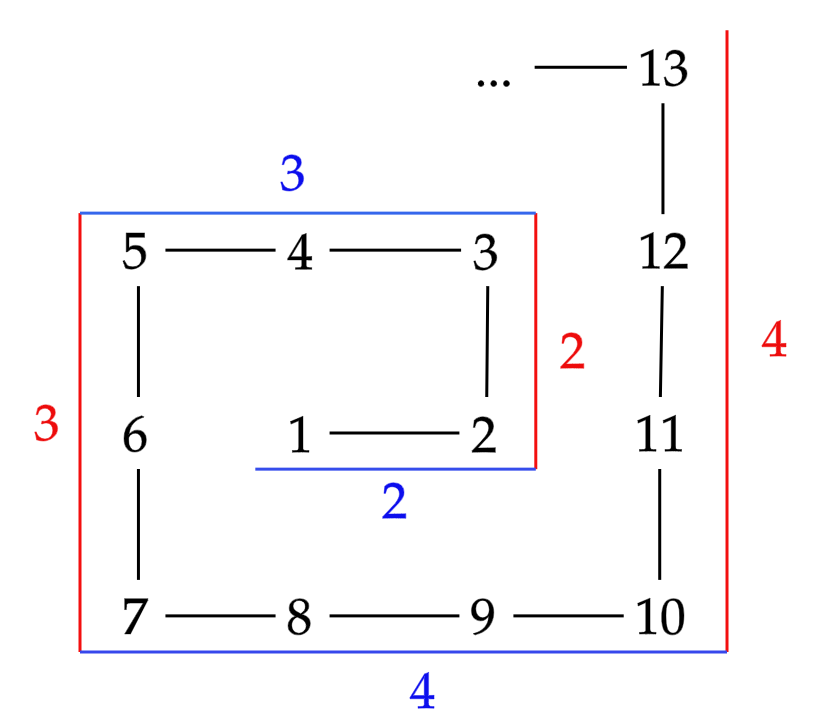
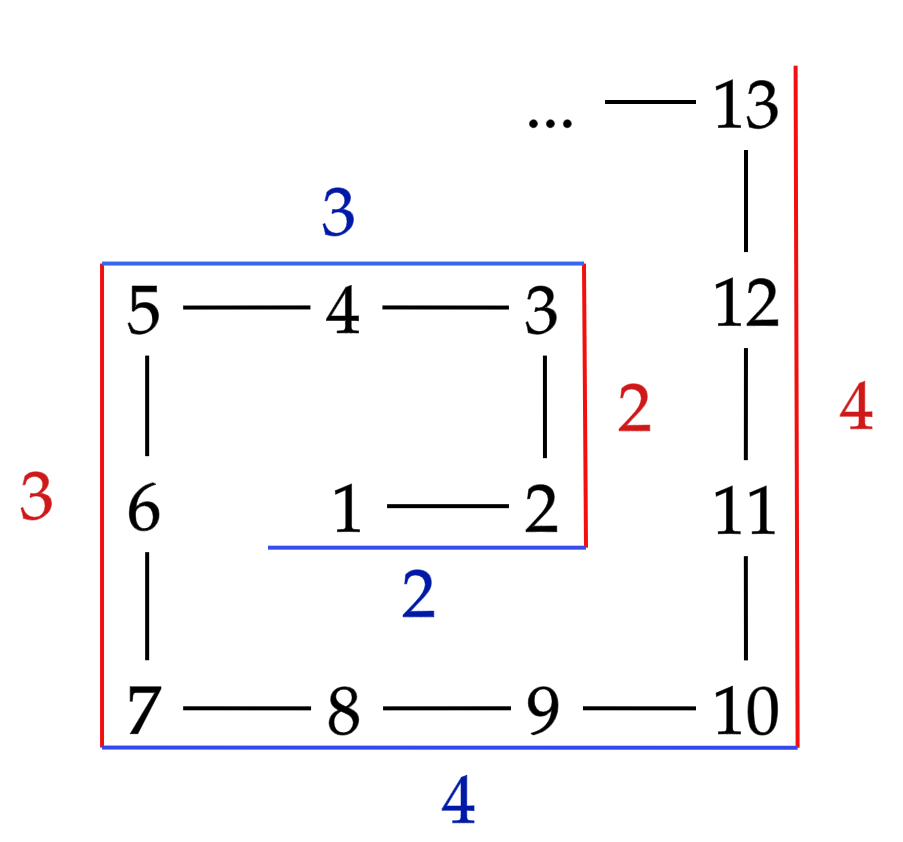
Update Tutorial

Changed region(s): [[0.0305, 0.0308, 0.9768, 1.0], [0.58, 0.0924, 0.641, 0.1541]]

diff --git a/Ulam Spiral in Raylib/README.md b/Ulam Spiral in Raylib/README.md
@@ -80,17 +80,18 @@ First let's look at the Ulam spiral and its mathematical relations
 
 ![Ulam spiral Relations](Resources/ulam-spiral-draw.png)
 
-<img src="Resources/ulam-spiral-draw.png" width="200"/>
+
+
+
+<br><br>
+
+
+Notice that each time we return to the vertical (or horizontal) line, its length is increased by 1 number.
 
 
 <br>
 
-
-Notice that each time we return to the vertical (or horizontal) line, its length increases by 1 number.
-
-
-<br><br><br>
-
+![Ulam spiral Relations](Resources/ulam-spiral-draw-with-relation.png)
 
 
 
